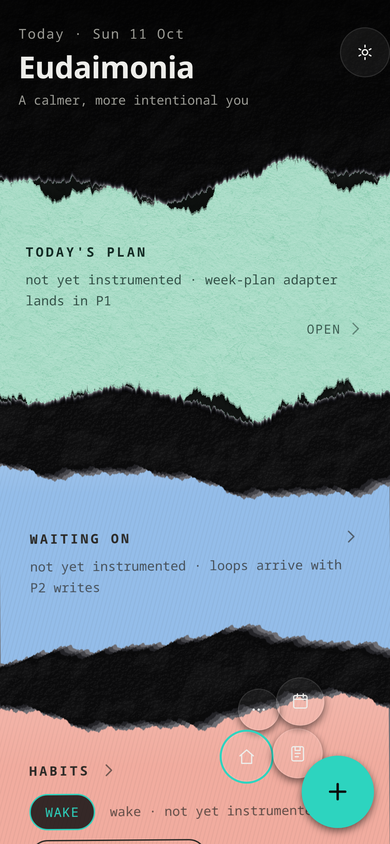
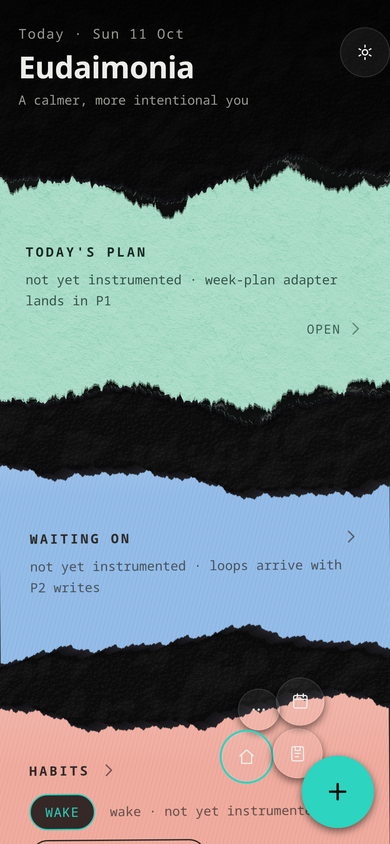
fix(design): the rim was a shadowed token — one lip block, light on clump crowns only
The bright rim along the tear survived three passes that each claimed to
have removed it. It was not the fringe and it was not tuning: theme.css
carried TWO --skin-lip-* blocks in :root. The later won at #6E6E74 and
the earlier was dead, so every pass edited the dead one, measured no
change, and blamed the measurement. Collapsed to one block, and
--skin-cast-* was duplicated the same way (identical values, same trap).

Two tests now hold it: no token defined twice within one rule (per rule,
so [data-theme] overrides stay legal), and every lip band below
luminance 40. These bands ARE the mask offset by 1-5px, so whatever
luminance they carry becomes a rim along the entire tear by construction.

Attribution needed the fringe layer disabled — with it on, the fringe's
own crowns sit in the measurement window and the lips look innocent.
With it off: a 3px rim at luminance 110/69/35 on 100% of columns.
After: 32/26/21/17/13, and the profile 1-2px above the tear falls from
~60% of columns over luminance 35 to under 6%.

Light now belongs to the LARGE raised crowns and nowhere else:

- Chips (8-26px) stay dark. A chip is a few px of hang, so a highlight
  on one is a bright dot, and a scatter of bright dots along a tear is
  the outline again, just dotted. 5% of chips, 70% of clumps.
- Lit clumps CLUSTER on a slow field, so highlights come in patches with
  dark stretches between: 14 patches, median 3.5 CSS px, gaps median
  17 CSS px, over 11% of columns.
[…]

diff --git a/client/src/theme.css b/client/src/theme.css
@@ -52,43 +52,7 @@
      along a tear: a lit cut face against the paper falling into the dark
      body within a few px. Measured off the reference (luminance 72 at 2px,
      41 at 4px, 17 at 6px). NOT white — torn black card shows dark fibre. */
-  /* Sampled off the measured falloff (72 at 2px, 41 at 4px, 17 at 6px) at
-     1px steps. Four bands at 2px steps was too coarse: where the tear runs
-     near-horizontal the steps separate and read as stair-stepping rather
-     than as a cut face. 1px steps resolve into a ramp.
 
-     NARROWED AND DARKENED 2026-10-11, measured against the reference.
-     Walking into the black from the paper, the reference runs
-       85 · 68 · 54 · 41 · 28 · 22 · 18  at 1-7px
-     while nine bands ran 77 · 49 · 59 · 58 · 45 · 33 · 23 — lighter from
-     3px inward and two px wider, which reads as a grey outline drawn
-     around the sheet rather than as the black layer's own torn edge. Five
-     lip bands now sit BELOW the reference curve,
-       38 · 30 · 24 · 18 · 13  at 1-5px, then the body
-     so the boundary is crisper and darker than the reference rather than
-     softer. The fine fibre and the contact shadow are untouched: what
-     shrank is the grey, not the material.
-
-     Darkened again 2026-10-11, and this is the point of the number: at
-     69 the first band drew a 2px grey line along 98% of the contour —
-     measurably a continuous halo, which is the one thing a torn edge
-     must not have. The cross-section still steps, so the stock still
-     reads thick; what carries the LIGHT now is the fringe's relief,
-     which is irregular by construction and lights under 10% of columns.
-     Raise these and the halo comes straight back; measure before you
-     do. */
-  --skin-lip-1: #26262B;
-  --skin-lip-2: #1E1E22;
-  --skin-lip-3: #18181C;
-  --skin-lip-4: #121216;
-  --skin-lip-5: #0D0D10;
-
-  /* The skin's edge falling ONTO the paper below it (the skin is the top
-     layer). Measured: 42% at the tear, gone by ~28px. */
-  --skin-cast-max: rgba(0, 0, 0, 0.42);
-  --skin-cast-mid: rgba(0, 0, 0, 0.23);
-  --skin-cast-far: rgba(0, 0, 0, 0.09);
-  --skin-cast-depth: 28px;
   /* state colors — two calibrated pairs, same hue per surface (01 §1) */
   --alive-glass: #3FB950;   --alive-paper: #27963C;
   --dead-glass: #F85149;    --dead-paper: #D64545;
@@ -131,19 +95,36 @@
      revealed beneath it (01 §2 placement ruling). A sheet casting outward
      onto the skin would render the stack upside down. */
   /* The torn edge of THICK stock, which is a cross-section, not a line.
-     Measured off the reference: walking up from the paper into the black,
-     luminance runs 72 at 2px, 41 at 4px, 17 at 6px, then the body's ~16.
-     That bright narrow band is the card's own thickness catching light,
-     and it is the whole reason the reference reads as thick paper rather
-     than as a shape cut out of a flat field. A single flat rim (the first
-     attempt, #1F1F21) is too dark and too even to read as thickness.
+     Five bands, cut by the SAME tear so the cross-section follows every
+     serration, graded from the band against the paper down into the body.
+     Warm-neutral, not white: torn black card shows dark fibre.
 
-     Three graded bands, lightest against the paper, cut by the SAME tear
-     so the cross-section follows every serration. Warm-neutral, not white:
-     torn black card shows dark fibre. */
-  --skin-lip-1: #6E6E74;  /* against the paper — the lit cut face */
-  --skin-lip-2: #45454A;
-  --skin-lip-3: #232327;  /* falling into the body */
+     THESE BANDS ARE THE MASK OFFSET BY 1-5px, so they follow the contour
+     exactly and whatever luminance they carry becomes a rim along the
+     ENTIRE tear. That is the one thing a torn edge must not have, and it
+     is worth knowing how the measurement went, because it cost three
+     wrong answers:
+
+       #6E6E74 · #45454A · #232327   a 3px rim at luminance 110 / 69 / 35
+                                     on 100% of columns (measured with the
+                                     fringe layer disabled, which is the
+                                     only way to attribute it)
+       this ramp                     32 / 26 / 21 / 17 / 13
+
+     The step is still there, so the stock still reads thick. What carries
+     the LIGHT is the fringe's relief, which is attached to discrete
+     fragments and so cannot trace the tear.
+
+     Before raising these, profile the rim (scripts/rim.py). Do NOT anchor
+     a metric on "the first mint pixel": this tear is ragged enough that
+     such a window sits on its own antialiasing and reads ~98% on every
+     build, which is how a rim survived three passes that each claimed to
+     have removed it. */
+  --skin-lip-1: #202024;  /* against the paper — the lit cut face */
+  --skin-lip-2: #1A1A1E;
+  --skin-lip-3: #151518;
+  --skin-lip-4: #111114;
+  --skin-lip-5: #0D0D10;  /* falling into the body */
   --skin-cast-max: rgba(0, 0, 0, 0.42);
   --skin-cast-mid: rgba(0, 0, 0, 0.23);
   --skin-cast-far: rgba(0, 0, 0, 0.09);

diff --git a/client/src/components/paper/torn-paper.test.ts b/client/src/components/paper/torn-paper.test.ts
@@ -22,6 +22,7 @@ function readRepoFile(relative: string): string {
 }
 
 const CSS = readRepoFile("src/components/paper/torn-paper.css");
+const THEME = readRepoFile("src/theme.css");
 
 /** Blends that leave a mid-grey source pixel equal to the backdrop. */
 const TINT_SAFE_BLENDS = ["soft-light", "overlay", "normal"];
@@ -87,6 +88,42 @@ describe("torn-paper.css — the component must not undo the measured palette", 
     const fringeRule = /\.torn-section__fringe \{[^}]*\}/.exec(CSS)?.[0] ?? "";
     expect(fringeRule).not.toMatch(/background-color/);
     expect(fringeRule).toContain("background-image");
+  });
+
+  it("defines each paper token exactly once", () => {
+    // theme.css carried TWO --skin-lip-* blocks. The later one won, the
+    // earlier was dead, and they disagreed: the live rim was #6E6E74
+    // while the dead one said #121216. Three tuning passes edited the
+    // dead block, measured no change, and blamed the measurement. A
+    // duplicated token is not a style nit — it makes a value unfalsifiable.
+    // Per RULE, not per file: redefining a token under [data-theme] is
+    // the theming mechanism and must stay legal. Twice inside one rule
+    // is the bug.
+    const body = THEME.replace(/\/\*[\s\S]*?\*\//g, "");
+    const duplicated: string[] = [];
+    for (const rule of body.matchAll(/([^{}]*)\{([^{}]*)\}/g)) {
+      const selector = rule[1].trim().split("\n").pop()?.trim() ?? "?";
+      const counts = new Map<string, number>();
+      for (const m of rule[2].matchAll(/(--[a-z0-9-]+)\s*:/g)) {
+        counts.set(m[1], (counts.get(m[1]) ?? 0) + 1);
+      }
+      for (const [k, n] of counts) if (n > 1) duplicated.push(`${selector} ${k} x${n}`);
+    }
+    expect(duplicated, "a token defined twice silently shadows itself").toEqual([]);
+  });
+
+  it("keeps the skin's lip bands dark enough not to rim the tear", () => {
+    // The lip bands are the mask offset by 1-5px, so they trace the
+    // contour exactly: their luminance IS a rim along the whole tear.
+    // The light belongs to the fringe, which is attached to discrete
+    // fragments and cannot trace anything.
+    const lips = [...THEME.matchAll(/--skin-lip-\d: (#[0-9A-Fa-f]{6})/g)].map((m) => m[1]);
+    expect(lips.length, "all five bands are defined").toBe(5);
+    for (const hex of lips) {
+      const [r, g, b] = [1, 3, 5].map((i) => parseInt(hex.slice(i, i + 2), 16));
+      const lum = 0.2126 * r + 0.7152 * g + 0.0722 * b;
+      expect(lum, `${hex} is bright enough to read as an outline along the tear`).toBeLessThan(40);
+    }
   });
 
   it("tiles the tear instead of stretching it over the section height", () => {

diff --git a/scripts/author_tears.py b/scripts/author_tears.py
@@ -216,21 +216,22 @@ FRINGE_SCALE = 2
 
 RELIEF = {
     "fragments": 54,       # attempts per edge; the zone field gates them
-    "clump_share": 0.24,   # the few places a whole flake came away
+    "clump_share": 0.32,   # the few places a whole flake came away
     "clump_w": (26, 68),   # clumps: wide enough for the modelling to read
     "clump_drop": (9.0, 19.0),
     "chip_w": (8, 26),     # chips: the common small fragment
     "chip_drop": (2.5, 7.0),
-    "crown": (62, 124),     # the lit ridge where the scrap lifts away
-    "lit_share": 0.62,     # how many fragments catch light at all
+    "crown": (78, 158),     # the lit ridge where the scrap lifts away
+    "lit_share": 0.70,      # of CLUMPS, before the clustering field
+    "lit_share_chip": 0.05, # chips stay dark; a lit chip is a bright dot     # how many fragments catch light at all
     "body": (4, 12),       # the dark body it falls to at the tip
     "lean": 0.30,          # how hard the light favours one flank
-    "contact": 0.58,
+    "contact": 0.70,
     # The light comes from above. A top edge's cut face tilts up into it;
     # a bottom edge's tilts away, so the same crown brightness on both
     # lights a face that should be in shadow — and a lit rim under the
     # sheet is read as an outline, not as relief.
-    "downlight": 0.42,       # the narrow shadow it drops on the paper
+    "downlight": 0.78,       # the narrow shadow it drops on the paper
 }
 
 
@@ -287,32 +288,15 @@ def fringe_raster(ys: np.ndarray, seed: int, edge: str, clumped: bool = True) ->
             rgba[yi, x, :3] = value
             rgba[yi, x, 3] = min(1.0, alpha)
 
-    # 1. A FEW lit facets on the open cut, well back from the contour.
-    #    These predate the relief below and must stay sparse now that
-    #    fragments carry their own light: a run that hugs the contour for
-    #    its whole length draws a line along it, and a line along the
-    #    contour is the grey halo this edge must not have. So each run is
-    #    dotted rather than solid, its depth wanders, and it is dim.
-    x = 0
-    while x < w_px:
-        run = int(max(4, rng.gamma(2.0, 7.0)) * s)
-        if rng.random() < 0.10 + 0.26 * zone_lit[x % w_px]:
-            depth = rng.uniform(1.6, 4.4) * s
-            base = rng.uniform(42, 88) * lit_gain
-            # Dotted at CSS granularity, not raster granularity: gaps
-            # narrower than a display pixel close up again when the
-            # raster is drawn back down, and the run becomes the solid
-            # line along the contour that this breaking exists to prevent.
-            keep = rng.random(int(run / s) + 2) >= 0.42
-            for i in range(run):
-                if not keep[i // s]:
-                    continue
-                xx = (x + i) % w_px
-                fade = np.sin(np.pi * (i + 0.5) / run) ** 0.5
-                put(xx, ys[xx] - depth + rng.uniform(-1.4, 1.0) * s,
-                    base * rng.uniform(0.80, 1.18),
-                    rng.uniform(0.18, 0.46) * fade * (0.45 + 0.55 * zone_lit[xx]))
-        x += run + int(max(6, rng.gamma(2.2, 11.0)) * s)
+    # 1. (removed) There used to be runs of lit facets hugging the
+    #    contour here. They predate the relief and they were the wrong
+    #    idea: light placed RELATIVE TO THE CONTOUR follows the contour,
+    #    which is the definition of an outline however finely it is
+    #    broken up. Light now belongs to fragments, which are discrete
+    #    and sparse, so it cannot trace the tear. Measured first: by the
+    #    end they were almost entirely overwritten by later marks anyway
+    #    (0.1% of columns survived above the contour), so removing them
+    #    costs nothing and removes a standing temptation to turn them up.
 
     # 2. Recesses inside the black: darker than the skin's own crinkle, so
     #    they read as hollows between the lit facets rather than as paint.
@@ -322,8 +306,9 @@ def fringe_raster(ys: np.ndarray, seed: int, edge: str, clumped: bool = True) ->
         d0 = rng.uniform(1.2, 6.0) * s
         for i in range(w):
             xx = (cx + i) % w_px
-            put(xx, ys[xx] - d0, 3.0,
-                rng.uniform(0.25, 0.60) * np.sin(np.pi * (i + 0.5) / w))
+            fade = np.sin(np.pi * (i + 0.5) / w)
+            for k in range(s):
+                put(xx, ys[xx] - d0 + k, 0.0, rng.uniform(0.45, 0.85) * fade)
 
     # 3. COARSE SCALE: fragments of the black layer, delaminated and
     #    hanging over the sheet, still attached at the tear.
@@ -353,7 +338,8 @@ def fringe_raster(ys: np.ndarray, seed: int, edge: str, clumped: bool = True) ->
             # below to read at all. A fragment is WIDER THAN IT HANGS —
             # when that reverses it stops being a scrap and becomes a
             # tooth, and a row of teeth is fur.
-            if rng.random() < RELIEF["clump_share"]:
+            is_clump = rng.random() < RELIEF["clump_share"]
+            if is_clump:
                 w = int(rng.uniform(*RELIEF["clump_w"]) * s)
                 drop = rng.uniform(*RELIEF["clump_drop"]) * s
             else:
@@ -381,12 +367,23 @@ def fringe_raster(ys: np.ndarray, seed: int, edge: str, clumped: bool = True) ->
             glint = np.cumsum(rng.normal(0.0, 1.0, w))
             glint -= glint.mean()
             glint = np.clip(glint / (abs(glint).max() + 1e-6), 0.0, 1.0)
-            glint = np.clip((glint - 0.18) / 0.45, 0.0, 1.0) ** 0.6
+            glint = np.clip((glint - 0.10) / 0.55, 0.0, 1.0) ** 0.5
 
             crown = rng.uniform(*RELIEF["crown"]) * lit_gain
             base = rng.uniform(*RELIEF["body"])
             lean = rng.uniform(-1.0, 1.0)   # which flank the light favours
-            lit = rng.random() < RELIEF["lit_share"]
+            # Light belongs to the LARGE raised crowns. A chip is a few px
+            # of hang: a highlight on one is a bright dot, and a scatter of
+            # bright dots along the tear is the outline again, just
+            # dotted. A clump has a ridge wide enough to show a crown, a
+            # body falling away from it, and a shadow under it — which is
+            # the whole of what makes a fragment read as a solid thing.
+            #
+            # And lit fragments CLUSTER: the slow field leaves whole
+            # stretches dark, so the highlights come in patches with gaps
+            # rather than spaced evenly along the edge.
+            share = RELIEF["lit_share"] if is_clump else RELIEF["lit_share_chip"]
+            lit = rng.random() < share * (0.15 + 1.9 * zone_lit[cx])
             # Where along the hang the fold-ridge sits. Never at the
             # attachment line: a crown at y=0 on every fragment is a
             # highlight strung along the contour, i.e. an outline.
@@ -415,12 +412,13 @@ def fringe_raster(ys: np.ndarray, seed: int, edge: str, clumped: bool = True) ->
                         shade += (crown - base) * float(np.exp(-near * near)) * float(glint[i])
                     put(xx, ys[xx] + yy, float(np.clip(shade * flank, 3, 170)), 0.95)
                 # The hollow behind it, inside the black.
-                if rng.random() < 0.5:
-                    put(xx, ys[xx] - rng.uniform(0.4, 2.4) * s, 3.0,
-                        rng.uniform(0.25, 0.55) * prof)
+                if rng.random() < 0.72:
+                    for k in range(s):
+                        put(xx, ys[xx] - rng.uniform(0.4, 2.4) * s + k, 0.0,
+                            rng.uniform(0.45, 0.88) * prof)
                 # Narrow contact shadow where it lies on the exposed paper.
                 for k in range(1, 2 * s + 1):
-                    put(xx, ys[xx] + depth + k, 7.0,
+                    put(xx, ys[xx] + depth + k, 3.0,
                         max(0.0, RELIEF["contact"] - 0.18 * (k / s)) * prof)
 
     # 4. FINE SCALE: short broken strands, concentrated where the edge is
